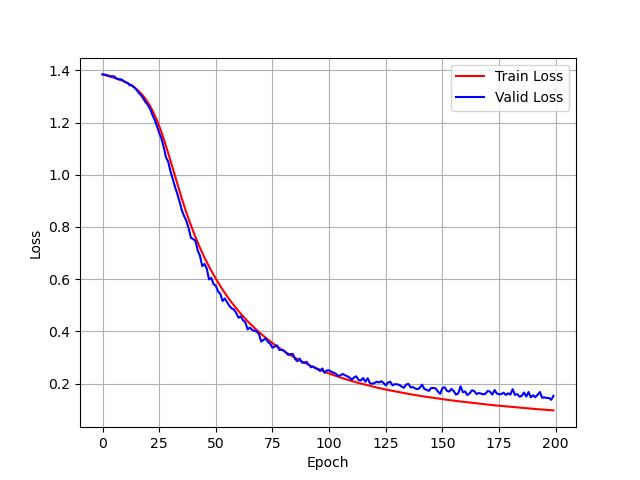
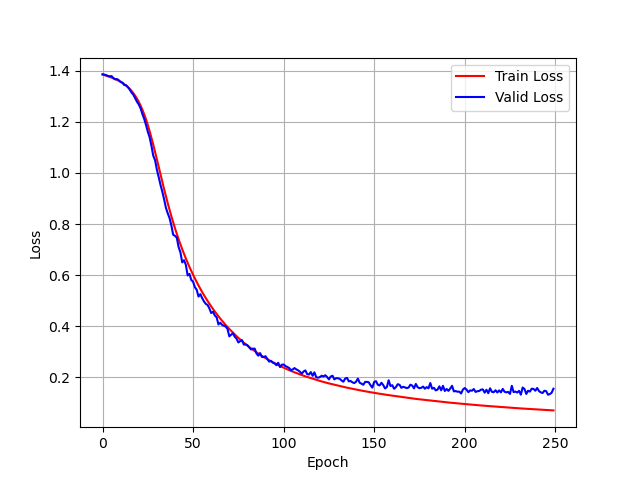
Train model with 250 epochs

diff --git a/Classification_MLP.py b/Classification_MLP.py
@@ -99,7 +99,7 @@ from torchmetrics import Accuracy
 
 model = model.to(device)
 # Train looooop
-num_epochs = 200
+num_epochs = 2
 
 loss_train_history = []
 acc_train_history = []
